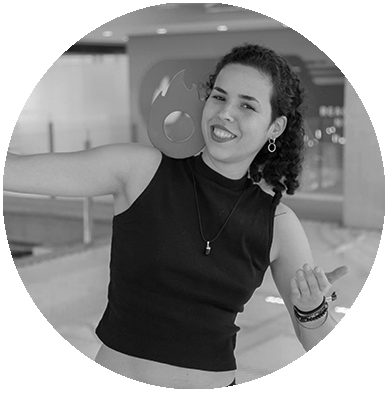
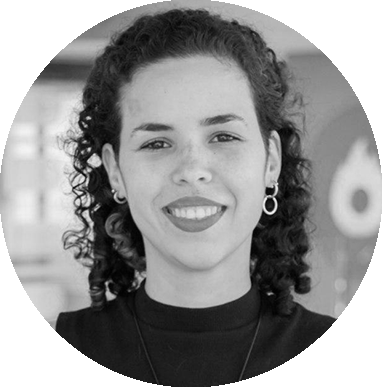
update team page

diff --git a/team.html b/team.html
@@ -114,7 +114,7 @@
             </div>
             <div class="row">
                 <div class="col-xs-12 col-md-2">
-                    <img src="./assets/images/avatar_generic.png" alt="" class="img-responsive">
+                    <img src="./assets/images/avatar_fernanda.png" alt="" class="img-responsive">
                     <h4 class="text-center">Fernanda Guimarães</h4>
                     <p><small>
                             Estudante de Sistema de Informação. Machine Learning Engineer @ Kunumi
@@ -156,7 +156,7 @@
                     <img src="./assets/images/avatar_tati.png" alt="" class="img-responsive">
                     <h4 class="text-center">Tatiana Camelo</h4>
                     <p><small>
-                            Bacharela em Sistema de Informação. Dev Back-End @ Hotmart
+                            Bacharela em Sistema de Informação. Dev Back-End @ Planerio
                         </small></p>
                     <footer>
                         <ul class="actions">
